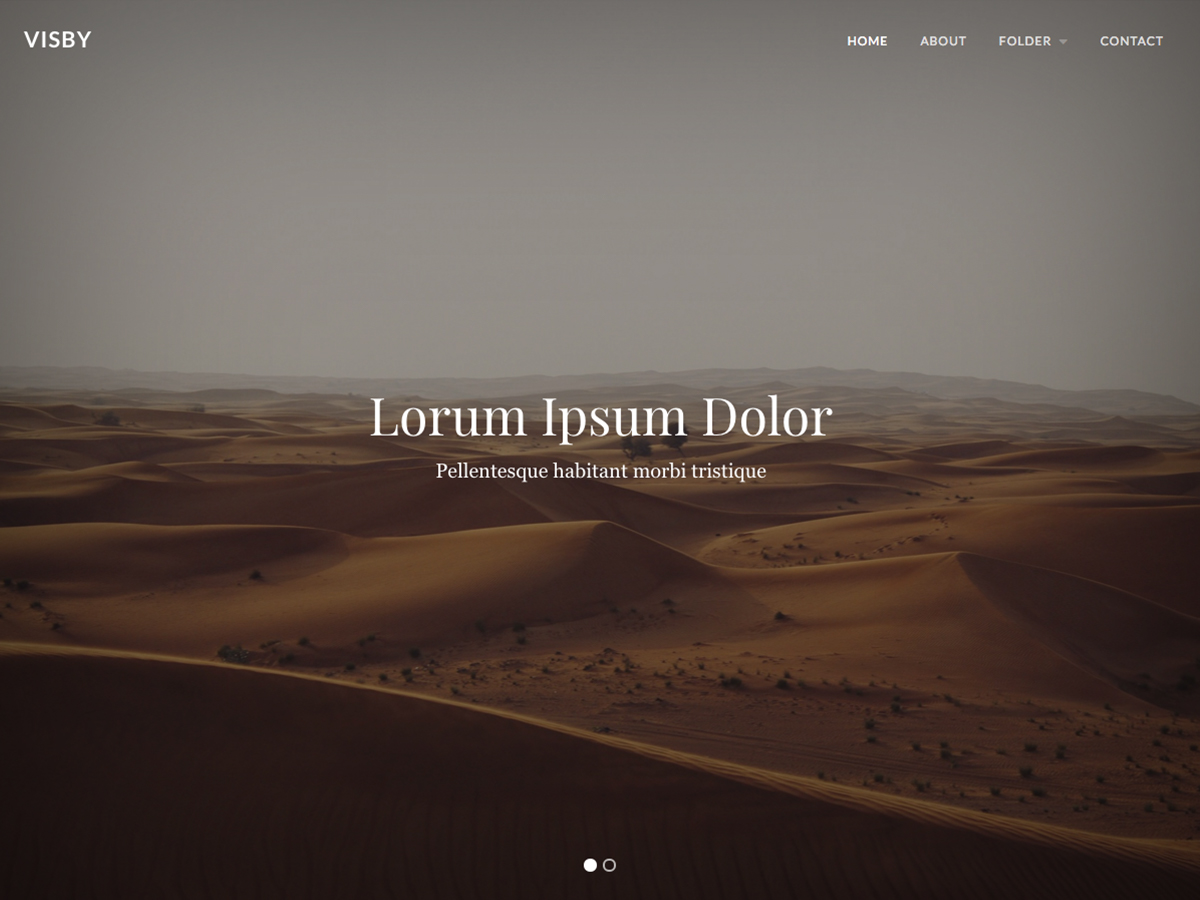
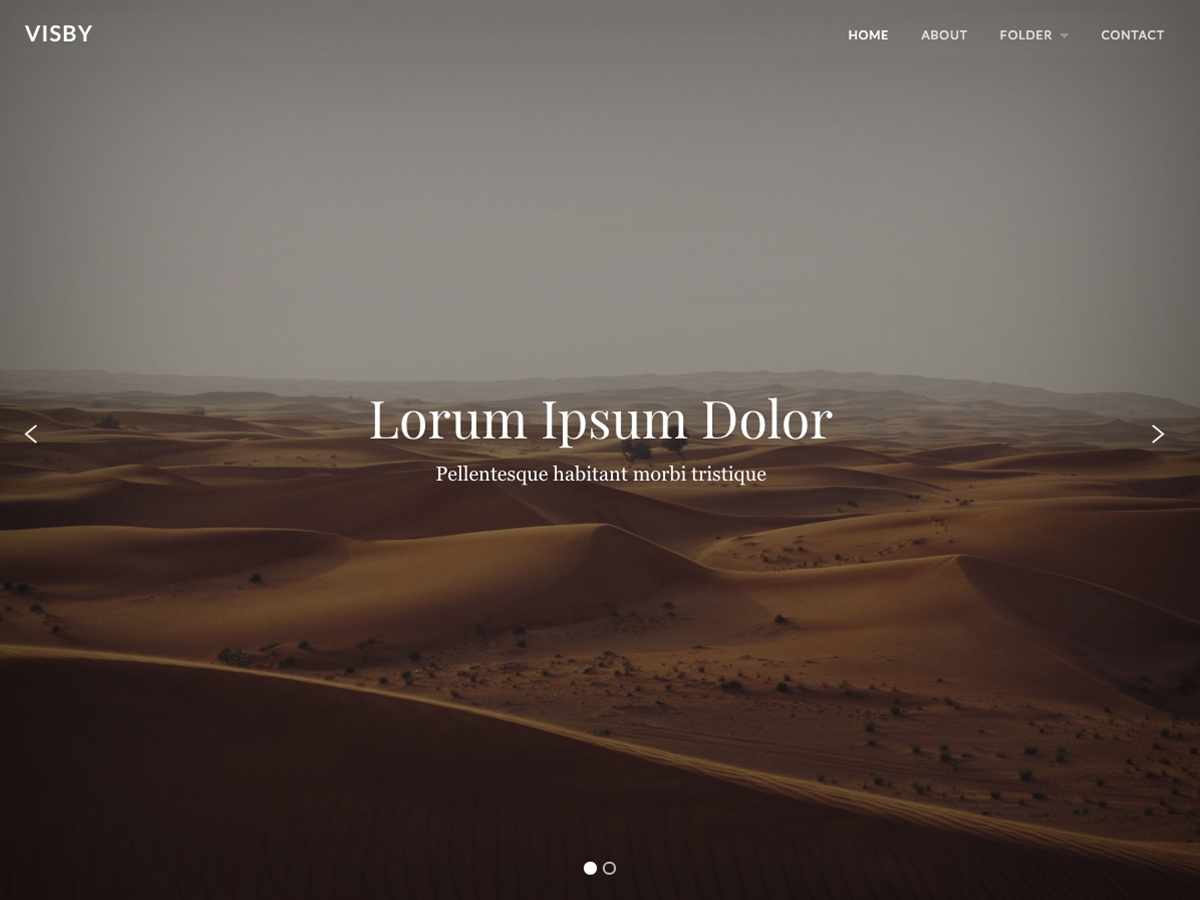
Updated slideshow images and screenshot.

diff --git a/less/fork.less b/less/fork.less
@@ -1,0 +1,87 @@
+@import url(https://fonts.googleapis.com/css?family=Work+Sans:400,500,600);
+
+.slideshow-home .responsiveslideshow {
+
+    .slides-list {
+        height: 650px;
+        height: 100vh;
+    }
+
+    .figure {
+        .flex-display(flex);
+        .justify-content(flex-start);
+    }
+
+    .caption {
+        .align-self(center);
+        background-color: fade(black, 30%);
+        padding: 25px 30px;
+        position: relative;
+        left: 35px;
+        max-width: 680px;
+        text-align: left;
+        width: auto;
+
+        @media @mobile-650px {
+            left: 25px;
+            top: -25px;
+        }
+    }
+
+    .slide-navigation {
+        background-color: fade(black, 30%);
+        position: absolute;
+        height: 60px;
+        width: 180px;
+        left: 35px;
+        top: 30px;
+    }
+
+    .slide-navigation .pause-toggle-only {
+        background-color: transparent;
+        width: 60px;
+    }
+
+    .slide-pagination {
+        background-color: fade(black, 30%);
+        padding: 8px 8px 3px 12px;
+        right: 35px;
+        top: 35px;
+
+        @media @mobile-650px {
+            left: 25px;
+            right: initial;
+        }
+    }
+
+    .pagination-item {
+        display: inline-block;
+        line-height: 0;
+        padding-right: 4px;
+    }
+
+    .next-button,
+    .previous-button {
+        height: 15px;
+        width: 15px;
+    }
+
+    .previous-button {
+        left: 26px;
+    }
+
+    .next-button {
+        right: 27px;
+    }
+}
+
+.template-header {
+    background-color: @color__header--background;
+    bottom: 0;
+    padding: 25px 30px;
+
+    @media @mobile-650px {
+        padding: 25px;
+    }
+}
+
